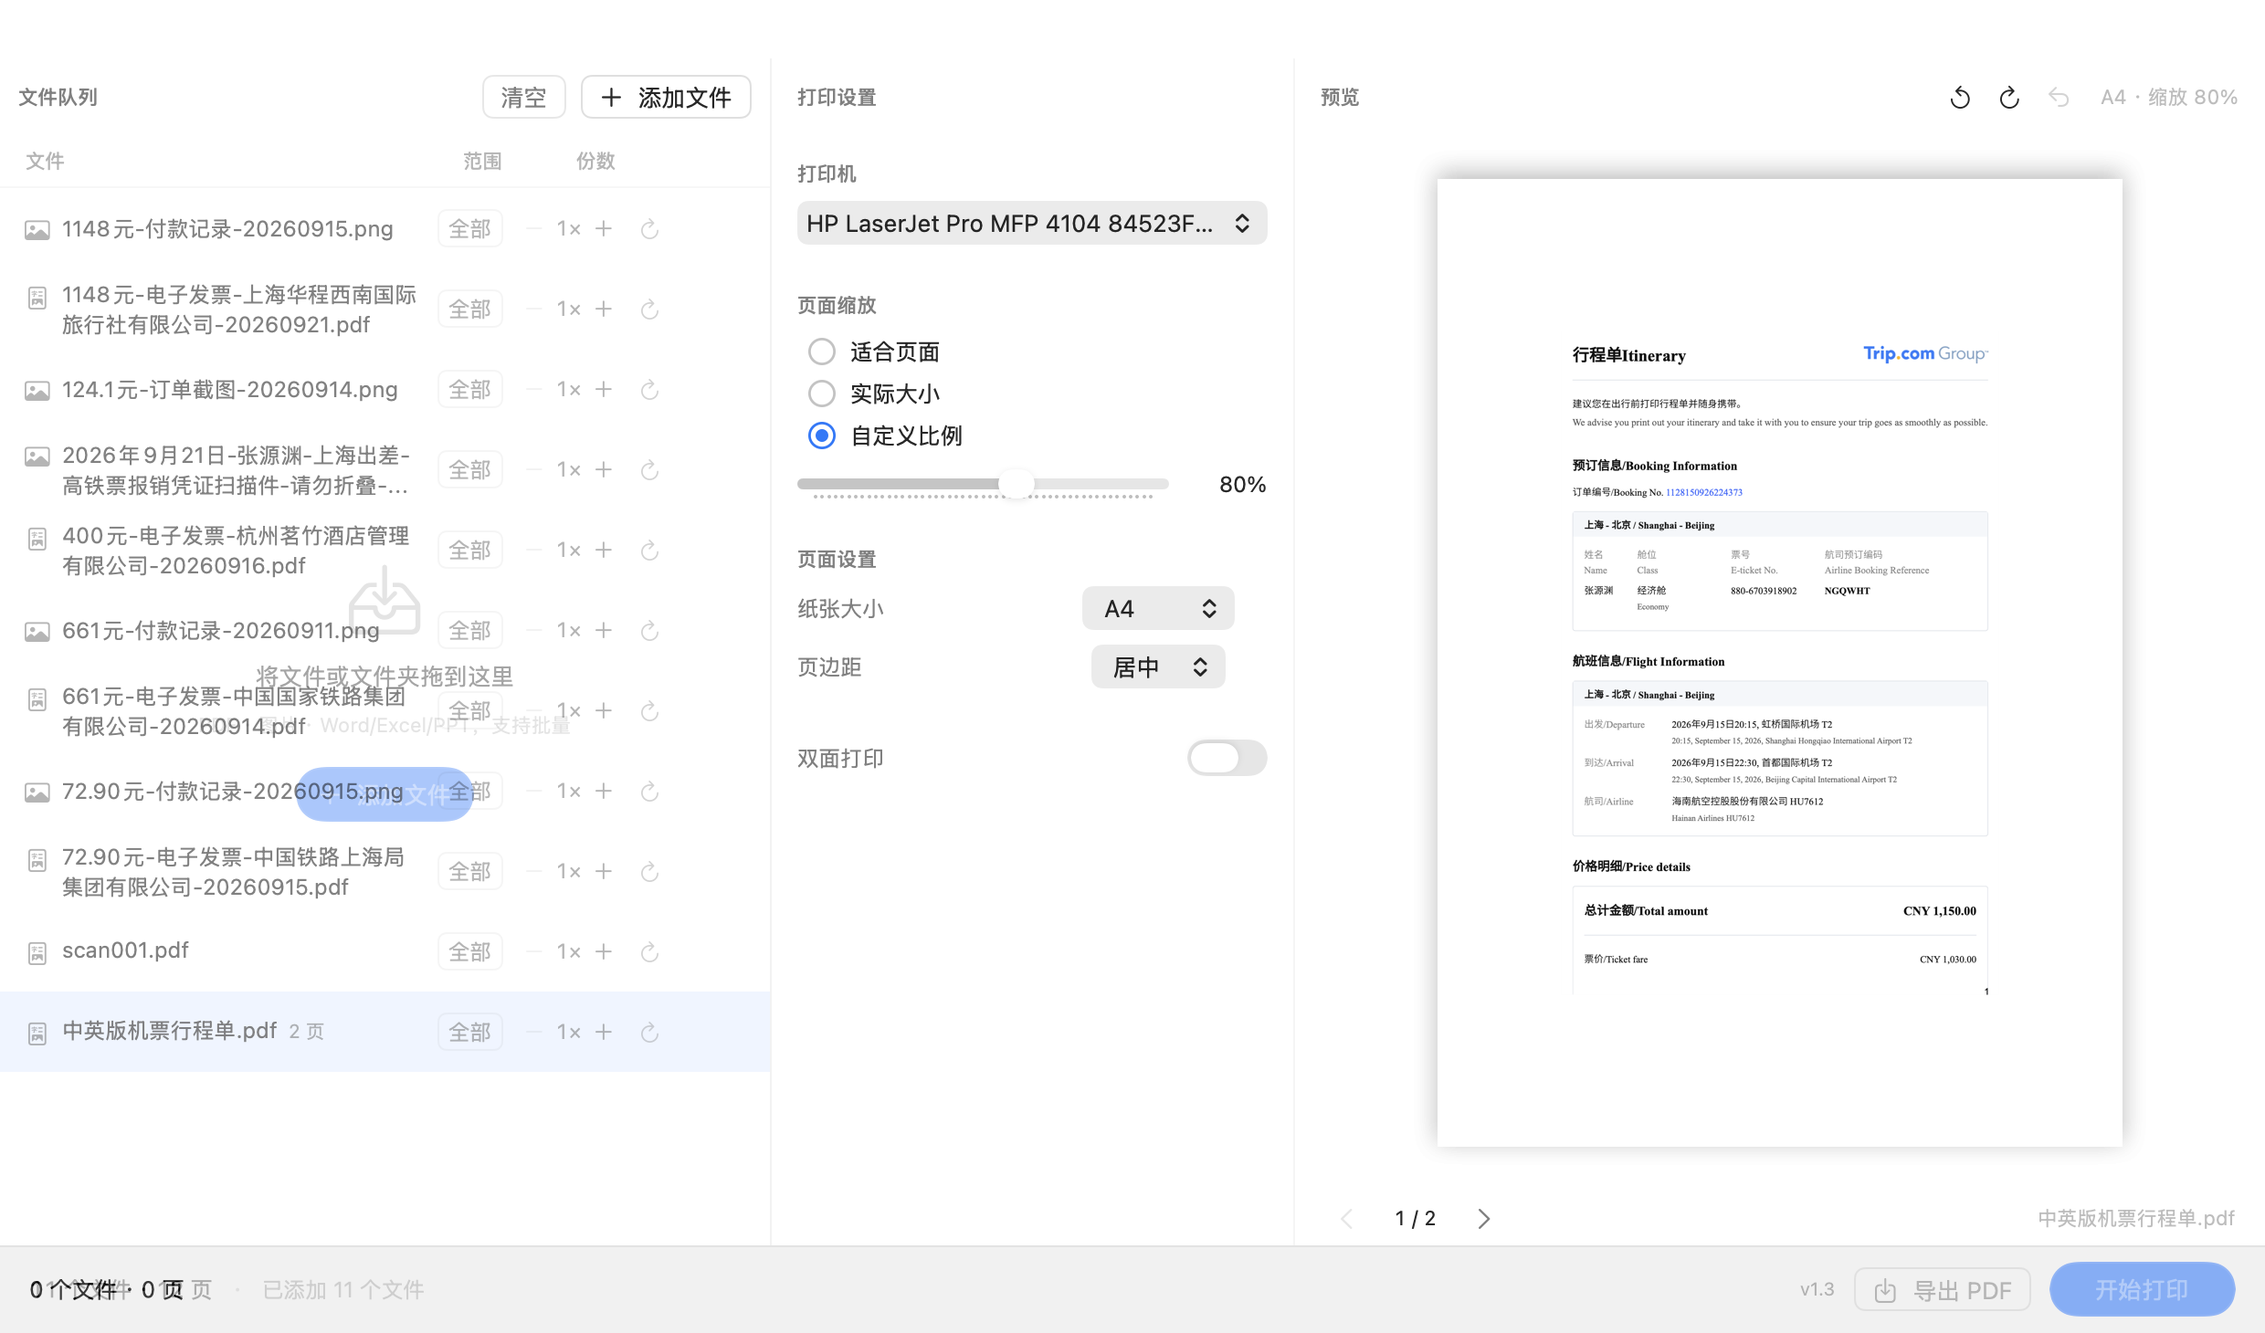
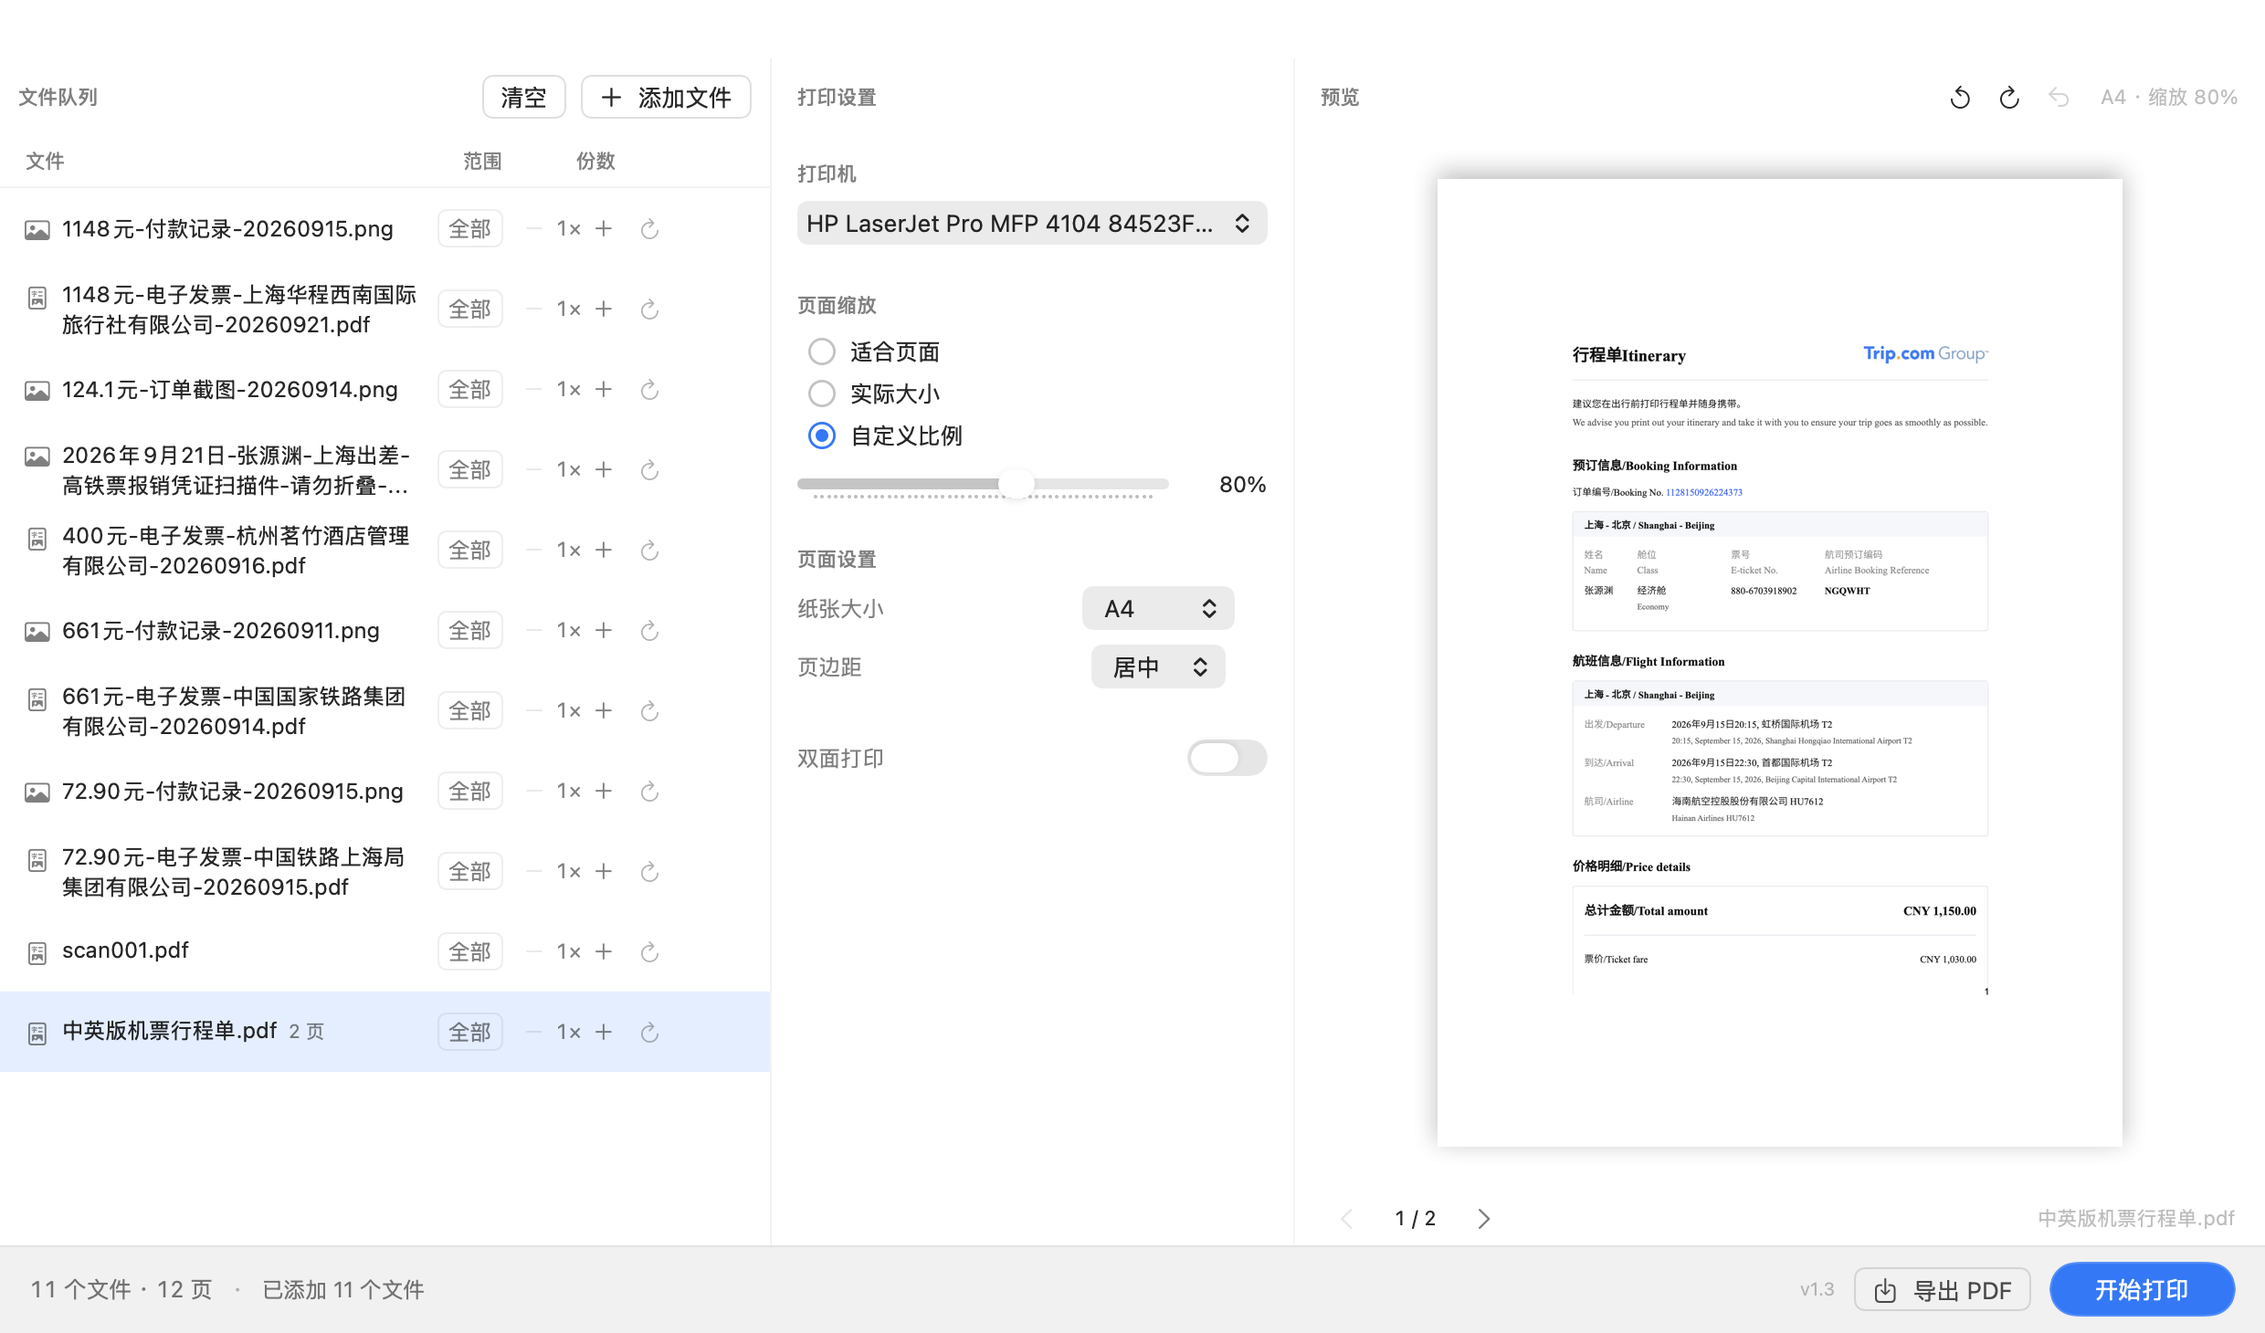
渲染全部移出主线程：串行渲染队列 + 防抖取消检查
问题：PDF/图片解码、Office→PDF（LibreOffice 1–3 秒/文件）都是同步阻塞，
以前全在主线程跑 —— 换文件、转旋转、导出、打印都会让窗口卡住。

- 新增 renderQueue（串行后台队列）+ renderOffMain()：所有渲染走同一条队列。
  串行不只是性能：LibreOffice 共用一个 user profile，并发两个实例会抢锁，
  所以这也是正确性问题。
- 导出/打印的批量渲染改成 BatchPlan 值快照 + 异步执行
  （原来 scaleAll 在主线程同步跑，导出 11 个文件整窗冻住，busy 转圈都画不出来）
- 预览 .task：sleep 之后与后台渲染回来之后都补 Task.isCancelled 检查。
  以前 `try? await Task.sleep` 被取消后仍继续执行，连续点旋转等于排队渲染多次，
  手感是「点了没反应」；现在旧图也不会盖住新图。
- QA：新增 BATCHPRINT_EXPORT_DIR 钩子，让导出路径可无头验证

验证：
- 导出 11 个文件 → CGPDFDocument 数页数 12 页，与底栏「11 个文件 · 12 页」一致
- stress（份数 3）→ 13 个文件，多出 -c1/-c2 两份，命名正确
- design/shots/ 六态快照重拍，预览区渲染正常

diff --git a/src/App.swift b/src/App.swift
@@ -416,20 +416,24 @@ final class Model: ObservableObject {
         flash("已清空文件队列")
     }
 
-    func scaleAll(to dir: URL) -> [URL] {
-        var outs: [URL] = []
-        for it in items {
-            let want = parseRange(it.range, total: it.pages)
-            for copy in 0..<max(1, it.copies) {
-                let suffix = it.copies > 1 ? "-c\(copy + 1)" : ""
-                if let o = scaledPDF(input: it.url, outDir: dir, mode: mode, percent: percent,
-                                     pages: want, suffix: suffix, paper: paper, margin: margin,
-                                     rotation: it.rotation) {
-                    outs.append(o)
-                }
-            }
+    /// 把当前队列 + 打印设置快照成一份可带到后台的渲染计划。
+    func batchPlan() -> BatchPlan {
+        BatchPlan(items: items.map { it in
+            BatchPlan.Item(url: it.url,
+                           pages: parseRange(it.range, total: it.pages),
+                           copies: it.copies,
+                           rotation: it.rotation)
+        }, mode: mode, percent: percent, paper: paper, margin: margin)
+    }
+
+    /// 导出 / 打印共用的「渲染一批文件」路径：一律走串行渲染队列，不占主线程。
+    /// `Task { @MainActor in }` 保证 await 回来后仍在主线程改 @Published 状态。
+    func renderBatchAsync(_ dir: URL, done: @escaping @MainActor ([URL]) -> Void) {
+        let plan = batchPlan()
+        Task { @MainActor in
+            let outs = await renderOffMain { scaledAll(plan, to: dir) }
+            done(outs)
         }
-        return outs
     }
 
     func doExport() {
@@ -441,8 +445,12 @@ final class Model: ObservableObject {
         let r = p.runModal()
         resetCursorRects()
         guard r == .OK, let dir = p.urls.first else { return }
-        let outs = scaleAll(to: dir)
-        flash(outs.isEmpty ? "导出失败，检查 PDF 是否损坏" : "已导出 \(outs.count) 个文件 → \(dir.lastPathComponent)")
+        busy = true
+        renderBatchAsync(dir) { outs in
+            self.busy = false
+            self.flash(outs.isEmpty ? "导出失败，检查 PDF 是否损坏"
+                                    : "已导出 \(outs.count) 个文件 → \(dir.lastPathComponent)")
+        }
     }
 
     func doPrint() {
@@ -450,25 +458,26 @@ final class Model: ObservableObject {
         guard !printer.isEmpty else { flash("没找到打印机"); return }
         busy = true
         let tmp = URL(fileURLWithPath: NSTemporaryDirectory()).appendingPathComponent("bp-\(UUID().uuidString)")
-        let outs = scaleAll(to: tmp)
-        guard !outs.isEmpty else {
-            busy = false
-            flash("生成失败，检查 PDF 是否损坏", seconds: 6)
-            return
-        }
-        var args = ["-d", printer, "-o", "Collate=\(outs.count > 1 ? "True" : "False")"]
-        if duplex { args += ["-o", "sides=two-sided-long-edge"] }
-        args += outs.map { $0.path }
-        let out = runCmd("/usr/bin/lp", args)
-        busy = false
-        let ok = out.lowercased().contains("request id") || out.contains("请求id")
-            || out.trimmingCharacters(in: .whitespacesAndNewlines).isEmpty
-        if ok {
-            for i in items.indices { items[i].status = .sent }
-            flash("已发送到 \(shortPrinter(printer))：\(outs.count) 个文件 / \(totalSheets) 页")
-        } else {
-            for i in items.indices { items[i].status = .failed }
-            flash("打印失败：\(out.prefix(90))", seconds: 8)
+        renderBatchAsync(tmp) { outs in
+            guard !outs.isEmpty else {
+                self.busy = false
+                self.flash("生成失败，检查 PDF 是否损坏", seconds: 6)
+                return
+            }
+            var args = ["-d", self.printer, "-o", "Collate=\(outs.count > 1 ? "True" : "False")"]
+            if self.duplex { args += ["-o", "sides=two-sided-long-edge"] }
+            args += outs.map { $0.path }
+            let out = runCmd("/usr/bin/lp", args)
+            self.busy = false
+            let ok = out.lowercased().contains("request id") || out.contains("请求id")
+                || out.trimmingCharacters(in: .whitespacesAndNewlines).isEmpty
+            if ok {
+                for i in self.items.indices { self.items[i].status = .sent }
+                self.flash("已发送到 \(shortPrinter(self.printer))：\(outs.count) 个文件 / \(self.totalSheets) 页")
+            } else {
+                for i in self.items.indices { self.items[i].status = .failed }
+                self.flash("打印失败：\(out.prefix(90))", seconds: 8)
+            }
         }
     }
 }
@@ -639,6 +648,53 @@ enum RowMetrics {
     }
 }
 
+// ── 渲染队列 ───────────────────────────────────────────
+// 所有 PDF/图片解码、Office → PDF 转换都必须走这一个**串行后台队列**：
+//   ① 这些调用是同步阻塞的（Office 还要跑 LibreOffice，1–3 秒/文件），
+//      留在主线程会让整个窗口卡住 —— 转一下旋转、换一个文件都会顿。
+//   ② LibreOffice 用同一个 user profile，并发跑两个实例会互相抢锁，
+//      所以串行化不只是为了性能，也是正确性问题。
+let renderQueue = DispatchQueue(label: "local.printtools.render", qos: .userInitiated)
+
+/// 把一段同步渲染搬到串行后台队列上跑；`await` 返回后仍回到调用者所在的 actor。
+func renderOffMain<T>(_ work: @escaping () -> T) async -> T {
+    await withCheckedContinuation { cont in
+        renderQueue.async { cont.resume(returning: work()) }
+    }
+}
+
+/// 批量渲染所需的全部参数（队列 + 打印设置的值快照）。
+/// 快照的意义：带到后台之后，用户在渲染过程中改队列 / 改设置都不会出竞态。
+struct BatchPlan {
+    struct Item {
+        let url: URL
+        let pages: [Int]
+        let copies: Int
+        let rotation: Int
+    }
+    let items: [Item]
+    let mode: ScaleMode
+    let percent: Double
+    let paper: PaperSize
+    let margin: MarginMode
+}
+
+/// 纯函数，可以在任意线程跑（只碰传入的参数，不碰 model）。
+func scaledAll(_ plan: BatchPlan, to dir: URL) -> [URL] {
+    var outs: [URL] = []
+    for it in plan.items {
+        for copy in 0..<max(1, it.copies) {
+            let suffix = it.copies > 1 ? "-c\(copy + 1)" : ""
+            if let o = scaledPDF(input: it.url, outDir: dir, mode: plan.mode, percent: plan.percent,
+                                 pages: it.pages, suffix: suffix, paper: plan.paper,
+                                 margin: plan.margin, rotation: it.rotation) {
+                outs.append(o)
+            }
+        }
+    }
+    return outs
+}
+
 // ── 主界面：文件队列 34% ｜ 打印设置 23% ｜ 预览 43% ─────
 struct ContentView: View {
     var sampleDir: String? = nil
@@ -704,6 +760,17 @@ struct ContentView: View {
                 model.items[0].rotation = 90
                 if model.items.count > 1 { model.items[1].rotation = 270 }
                 model.current = 0   // 让预览头部的「已转 90° · 复位」也能被快照盖到
+            }
+            // 导出路径（走渲染队列的那条）也要能被无头验证：
+            // NSOpenPanel 没法自动化，所以给一个直接指定输出目录的钩子
+            if let out = ProcessInfo.processInfo.environment["BATCHPRINT_EXPORT_DIR"] {
+                let dir = URL(fileURLWithPath: out)
+                try? FileManager.default.createDirectory(at: dir, withIntermediateDirectories: true)
+                model.renderBatchAsync(dir) { outs in
+                    let files = (try? FileManager.default.contentsOfDirectory(atPath: out)) ?? []
+                    print("EXPORT OK \(outs.count) files -> \(files.sorted())")
+                    fflush(stdout)   // 输出重定向到文件时是全缓冲，不 flush 会被 kill 掉
+                }
             }
         }
     }
@@ -1335,11 +1402,21 @@ struct PreviewPane: View {
         .task(id: key) {
             guard let it = item else { image = nil; return }
             try? await Task.sleep(nanoseconds: 60_000_000)
+            // 防抖：这一帧已经被后一次点击取代了就别再渲染。
+            // （以前 `try? await Task.sleep` 被取消后还会继续往下跑，
+            //   连续转几次就等于排队渲染好几次，手感是「点了没反应」）
+            guard !Task.isCancelled else { return }
             let want = parseRange(it.range, total: it.pages)
             let src = want.indices.contains(page - 1) ? want[page - 1] : (want.first ?? 1)
-            let next = renderPage(url: it.url, mode: model.mode, percent: model.percent,
-                                  sourcePage: src, paper: model.paper, margin: model.margin,
-                                  rotation: it.rotation)
+            // 值快照：渲染在后台线程跑，不能再碰 model
+            let (u, m, pc, pp, mg, rt) = (it.url, model.mode, model.percent,
+                                          model.paper, model.margin, it.rotation)
+            let next = await renderOffMain {
+                renderPage(url: u, mode: m, percent: pc, sourcePage: src,
+                           paper: pp, margin: mg, rotation: rt)
+            }
+            // 回来后再确认一次：后台渲染期间用户可能又点了，别用旧图盖住新图
+            guard !Task.isCancelled else { return }
             // 不做「转过去」的动画：旋转是精确几何变换，内容自己换了朝向已经说明了一切，
             // 再叠一个 90° 旋转既生硬又多余（旋转本身是 tens/day 的操作，应近乎无感）。
             // 图本身还是带 opacity 交叉淡入的（.animation(.easeOut, value: key)）。

diff --git a/README.md b/README.md
@@ -58,6 +58,15 @@ open -a ~/Applications/批量打印工具.app
 - **图片不是另一条流水线**：图片按 DPI 元数据换算成点尺寸后，用与 PDF **完全相同**的缩放/纸张/页边距数学画进 PDF，所以行为一致、只有一套逻辑。
 - **Office 转换**：`soffice --headless --convert-to pdf`，按「转换器版本 + 路径 + mtime」缓存到 `~/Library/Caches/local.printtools.batchprint/office/`。
 - **LibreOffice 中文乱码**：headless 模式下它在本机的字体发现是坏的（找不到系统 CJK 字体，中文渲染成空白/方块）。修法是注入一份指向 `/System/Library/Fonts` 的 `FONTCONFIG_FILE`，见 `ensureFontConfig()`。
+- **渲染必须全部走同一个串行后台队列**（`renderQueue` / `renderOffMain` / `BatchPlan`）：
+  ① PDF 解码、图片解码、Office → PDF（LibreOffice，1–3 秒/文件）都是**同步阻塞**的，
+  留在主线程会让整个窗口卡住——转一下旋转、预览一个 Office 文件都会顿；导出/打印批量渲染也一样。
+  ② LibreOffice 用同一个 user profile，**不能并发跑两个实例**（会抢锁），
+  所以串行化不只是性能，是正确性。渲染参数先快照成 `BatchPlan` 再带到后台，避免竞态。
+- **防抖要把「取消」当真**：预览有 60ms 防抖，但 `try? await Task.sleep` 被取消后
+  还会继续往下跑（取消错误被 `try?` 吃掉了），连续点几次旋转就等于排队渲染几次，
+  手感变成「点了没反应」。现在 sleep 之后和后台渲染回来之后都补了 `Task.isCancelled` 检查，
+  旧图不会盖住新图。
 - **光标接管**：`TextField` 获得焦点后 field editor 会把全局光标置成 I-beam，而鼠标离开时没有可靠复位（`cursorUpdate` tracking area 为 0）。AppKit 每次 mousemove 又用 cursor rect 覆盖回来，所以只在事件监听里 `set()` 无效。最终做法是 `window.disableCursorRects()` **接管光标管理**，自己按命中视图决定。
 - **打印**：走 CUPS 的 `lp`（macOS 自带开源打印系统），不做任何 GUI 打印栈依赖；驱动层面的按比例缩放不可靠，因此缩放由本工具在生成 PDF 时完成。
 - **旋转不要动画**：试过让预览图「转过去」（新图先无动画放在旧角度，再动画回 0；先弹簧、后 220ms ease-in-out），实测**生硬且多余**。旋转是精确几何变换，内容自己换了朝向已经说明一切；旋转本身是每天几十次的操作，按 animate 的 frequency 门应该近乎无感。现在只保留图本身的 opacity 交叉淡入（`easeOut 0.18s`）。
@@ -103,6 +112,11 @@ env BATCHPRINT_SAMPLE_DIR=$D BATCHPRINT_DEMO=rotate BATCHPRINT_SNAPSHOT=/tmp/s3.
 env BATCHPRINT_SAMPLE_DIR=$D BATCHPRINT_DEMO=stress BATCHPRINT_SNAPSHOT=/tmp/s4.png "$B" # 非法范围+份数3
 env BATCHPRINT_SAMPLE_DIR=$D BATCHPRINT_DARK=1    BATCHPRINT_SNAPSHOT=/tmp/s5.png "$B"   # 深色
 env BATCHPRINT_SNAPSHOT=/tmp/s6.png "$B"                                                  # 空态
+
+# 批量渲染路径（导出/打印共用那条）也要能被无头验证：
+# NSOpenPanel 没法自动化，所以给一个直接指定输出目录的钩子
+env BATCHPRINT_SAMPLE_DIR=$D BATCHPRINT_EXPORT_DIR=/tmp/bpexp "$B"                        # 11 个 PDF（行程单 2 页 → 12 页）
+env BATCHPRINT_SAMPLE_DIR=$D BATCHPRINT_DEMO=stress BATCHPRINT_EXPORT_DIR=/tmp/bpexp "$B"  # 份数 3 的行多出 -c1/-c2
 ```
 
 - `BATCHPRINT_HOVER=1` 会让**所有行**同时进入 hover 态（方便一次看全 hover 样式），
@@ -111,6 +125,8 @@ env BATCHPRINT_SNAPSHOT=/tmp/s6.png "$B"                                        
 - `BATCHPRINT_SNAPSHOT_DELAY`（默认 2.2 秒）要大于样本文档的 LibreOffice 转换耗时，否则会拍到空队列。
 - 出图后用 `seeimg` 看图自检之外，**布局类改动要用像素量**（列右缘、间距、符号是否存在），
   静态看图看不出「图标被压成 0 宽」这种问题。
+- 统计导出结果别用 `mdls`（/tmp 不被 Spotlight 索引，返回 null），用 `CGPDFDocument.numberOfPages` 数页数才准。
+- 输出重定向到文件时 stdout 是**全缓冲**，进程被 kill 会丢日志；钩子里加 `fflush(stdout)`。
 
 ## 目录
 
